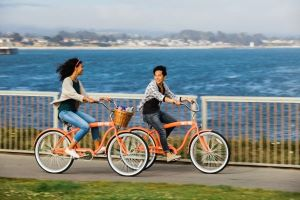
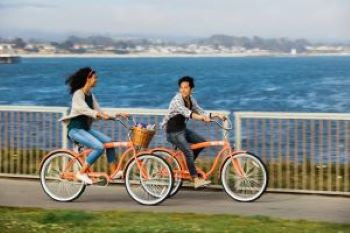
added images

diff --git a/cycling-website/index.html b/cycling-website/index.html
@@ -39,7 +39,7 @@
         </p>
         </section> 
    
-        <img class="cycling-img1" src="images/dadNican.jpg" alt="biking">
+        <img class="cycling-img1" src="images/bikingschool.jpg" alt="biking">
         <section class="inf1">
            <h2> RIDE YOUR BIKE </h2>
         <p>
@@ -66,11 +66,11 @@
 
     <h2>LET'S RIDE</h2>
     <div class="gallery">
-           <img src="images/bikingCommute.jpg" alt="biking at park" class="image1">
+           <img src="images/streets.jpg" alt="biking at park" class="image1">
        
            <img src="images/byBeach.jpg" alt="biking at beach" class="image2">
       
-           <img src="images/streetBiking.jpg" alt="biking at street" class="image3">
+           <img src="images/biking-by-house.jpg" alt="biking at street" class="image3">
     </div>  
 
 </main>

diff --git a/cycling-website/benefits.html b/cycling-website/benefits.html
@@ -4,7 +4,10 @@
     <meta charset="UTF-8">
     <meta http-equiv="X-UA-Compatible" content="IE=edge">
     <meta name="viewport" content="width=device-width, initial-scale=1.0">
+    
     <title>Health Benefits For Cycling</title>
+    <link rel="stylesheet" href="styles/style.css">
+
 </head>
 <body>
    <header>
@@ -77,8 +80,7 @@
     </div>
       <p>Life Style Cycling &copy; Copyright 2022 - Yvette Flores </p>    
       <a href="site-plan.html">Site Plan</a>
-      <a href="">Health Benefits</a>
-      <a href="">Places to Cycle</a>
+      
 
       <div class="social-media">
         <a href="https://facebook.com" target="_blank">

diff --git a/cycling-website/places.html b/cycling-website/places.html
@@ -4,7 +4,10 @@
     <meta charset="UTF-8">
     <meta http-equiv="X-UA-Compatible" content="IE=edge">
     <meta name="viewport" content="width=device-width, initial-scale=1.0">
+
     <title>Places to go cycling </title>
+    <link rel="stylesheet" href="styles/style.css">
+    
 </head>
 <body>
    <header>
@@ -75,8 +78,7 @@
     </div>
       <p>Life Style Cycling &copy; Copyright 2022 - Yvette Flores </p>    
       <a href="site-plan.html">Site Plan</a>
-      <a href="">Health Benefits</a>
-      <a href="">Places to Cycle</a>
+      
 
       <div class="social-media">
         <a href="https://facebook.com" target="_blank">

diff --git a/wrr/styles/style.css b/wrr/styles/style.css
@@ -120,7 +120,6 @@ div.background1 {
 
 .msg{
     background-color:rgb(57, 110, 148);
-    line-height: 1.5em;
     padding: 35px;
     grid-column: 6/10;
     grid-row: 6/7;
